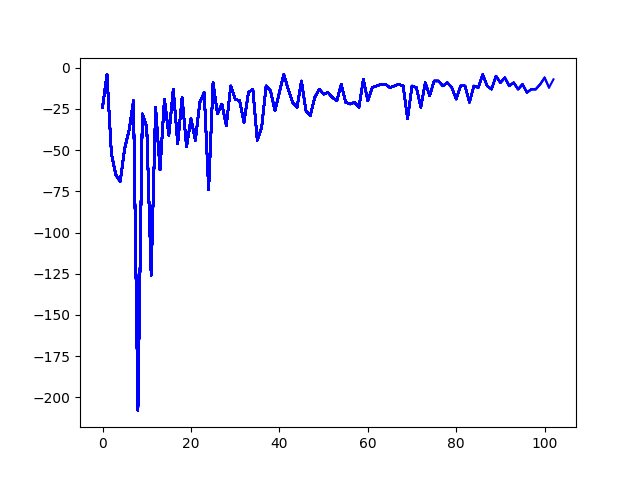
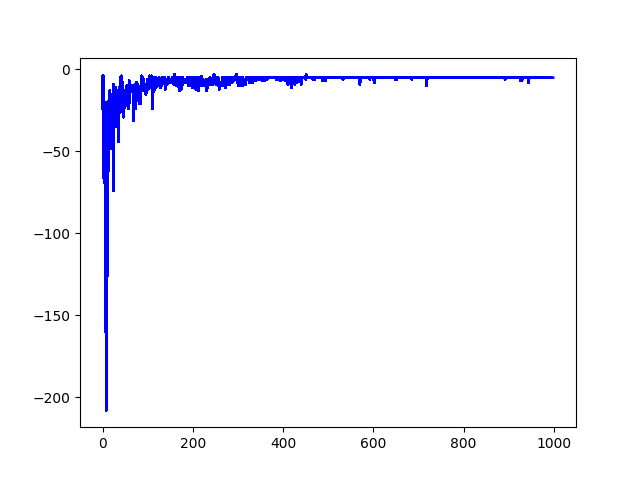
graph change

diff --git a/Code 1. Grid World/6. DQN/environment.py b/Code 1. Grid World/6. DQN/environment.py
@@ -56,7 +56,7 @@ class Env(tk.Tk):
         #
         #
         # #goal
-        self.set_reward([9, 9], 11)
+        self.set_reward([9, 9], 5)
 
         # add image to canvas
         self.rectangle = self.canvas.create_image(50, 50, image=self.rectangle_image)
@@ -85,7 +85,7 @@ class Env(tk.Tk):
         #
         #
         # #goal
-        self.set_reward([9, 9], 11)
+        self.set_reward([9, 9], 5)
 
     def set_reward(self, state, reward):
         state = [int(state[0]), int(state[1])]
@@ -115,7 +115,7 @@ class Env(tk.Tk):
         for reward in self.rewards:
             if reward['state'] == state:
                 rewards += reward['reward']
-                if reward['reward'] == 11:
+                if reward['reward'] == 5:
                     check_list['if_goal'] = True
         check_list['rewards'] = rewards
 
